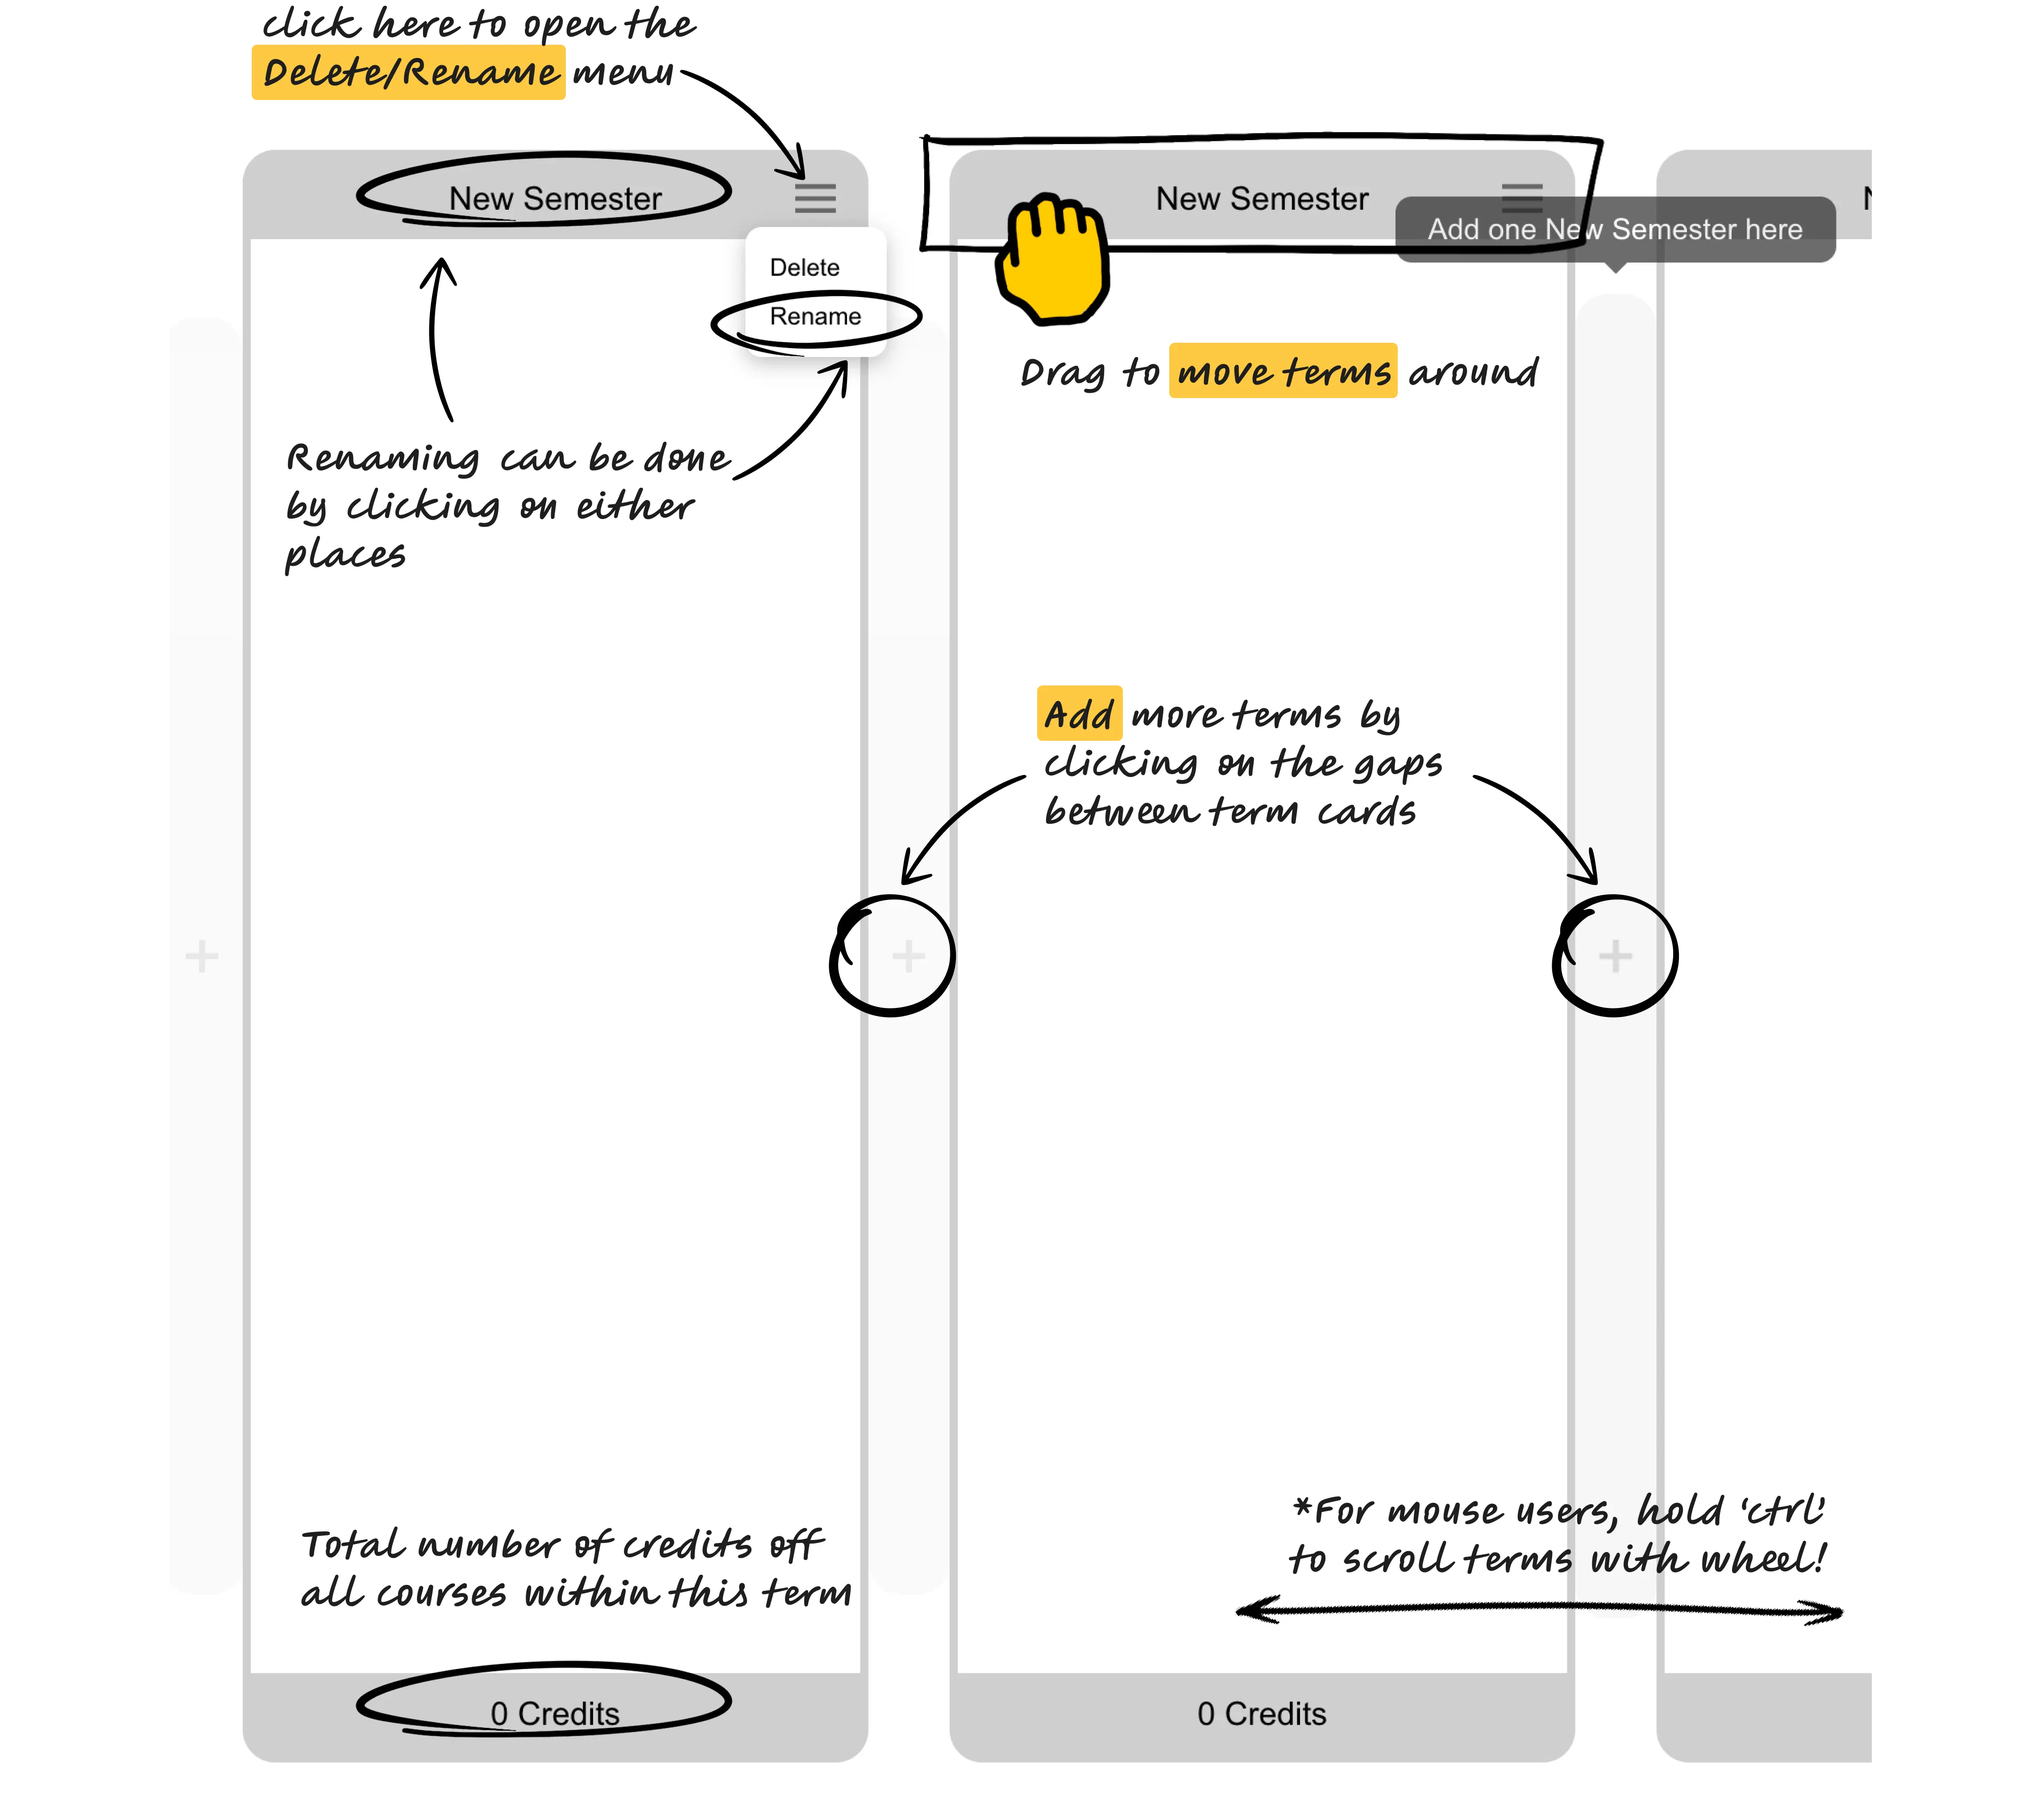
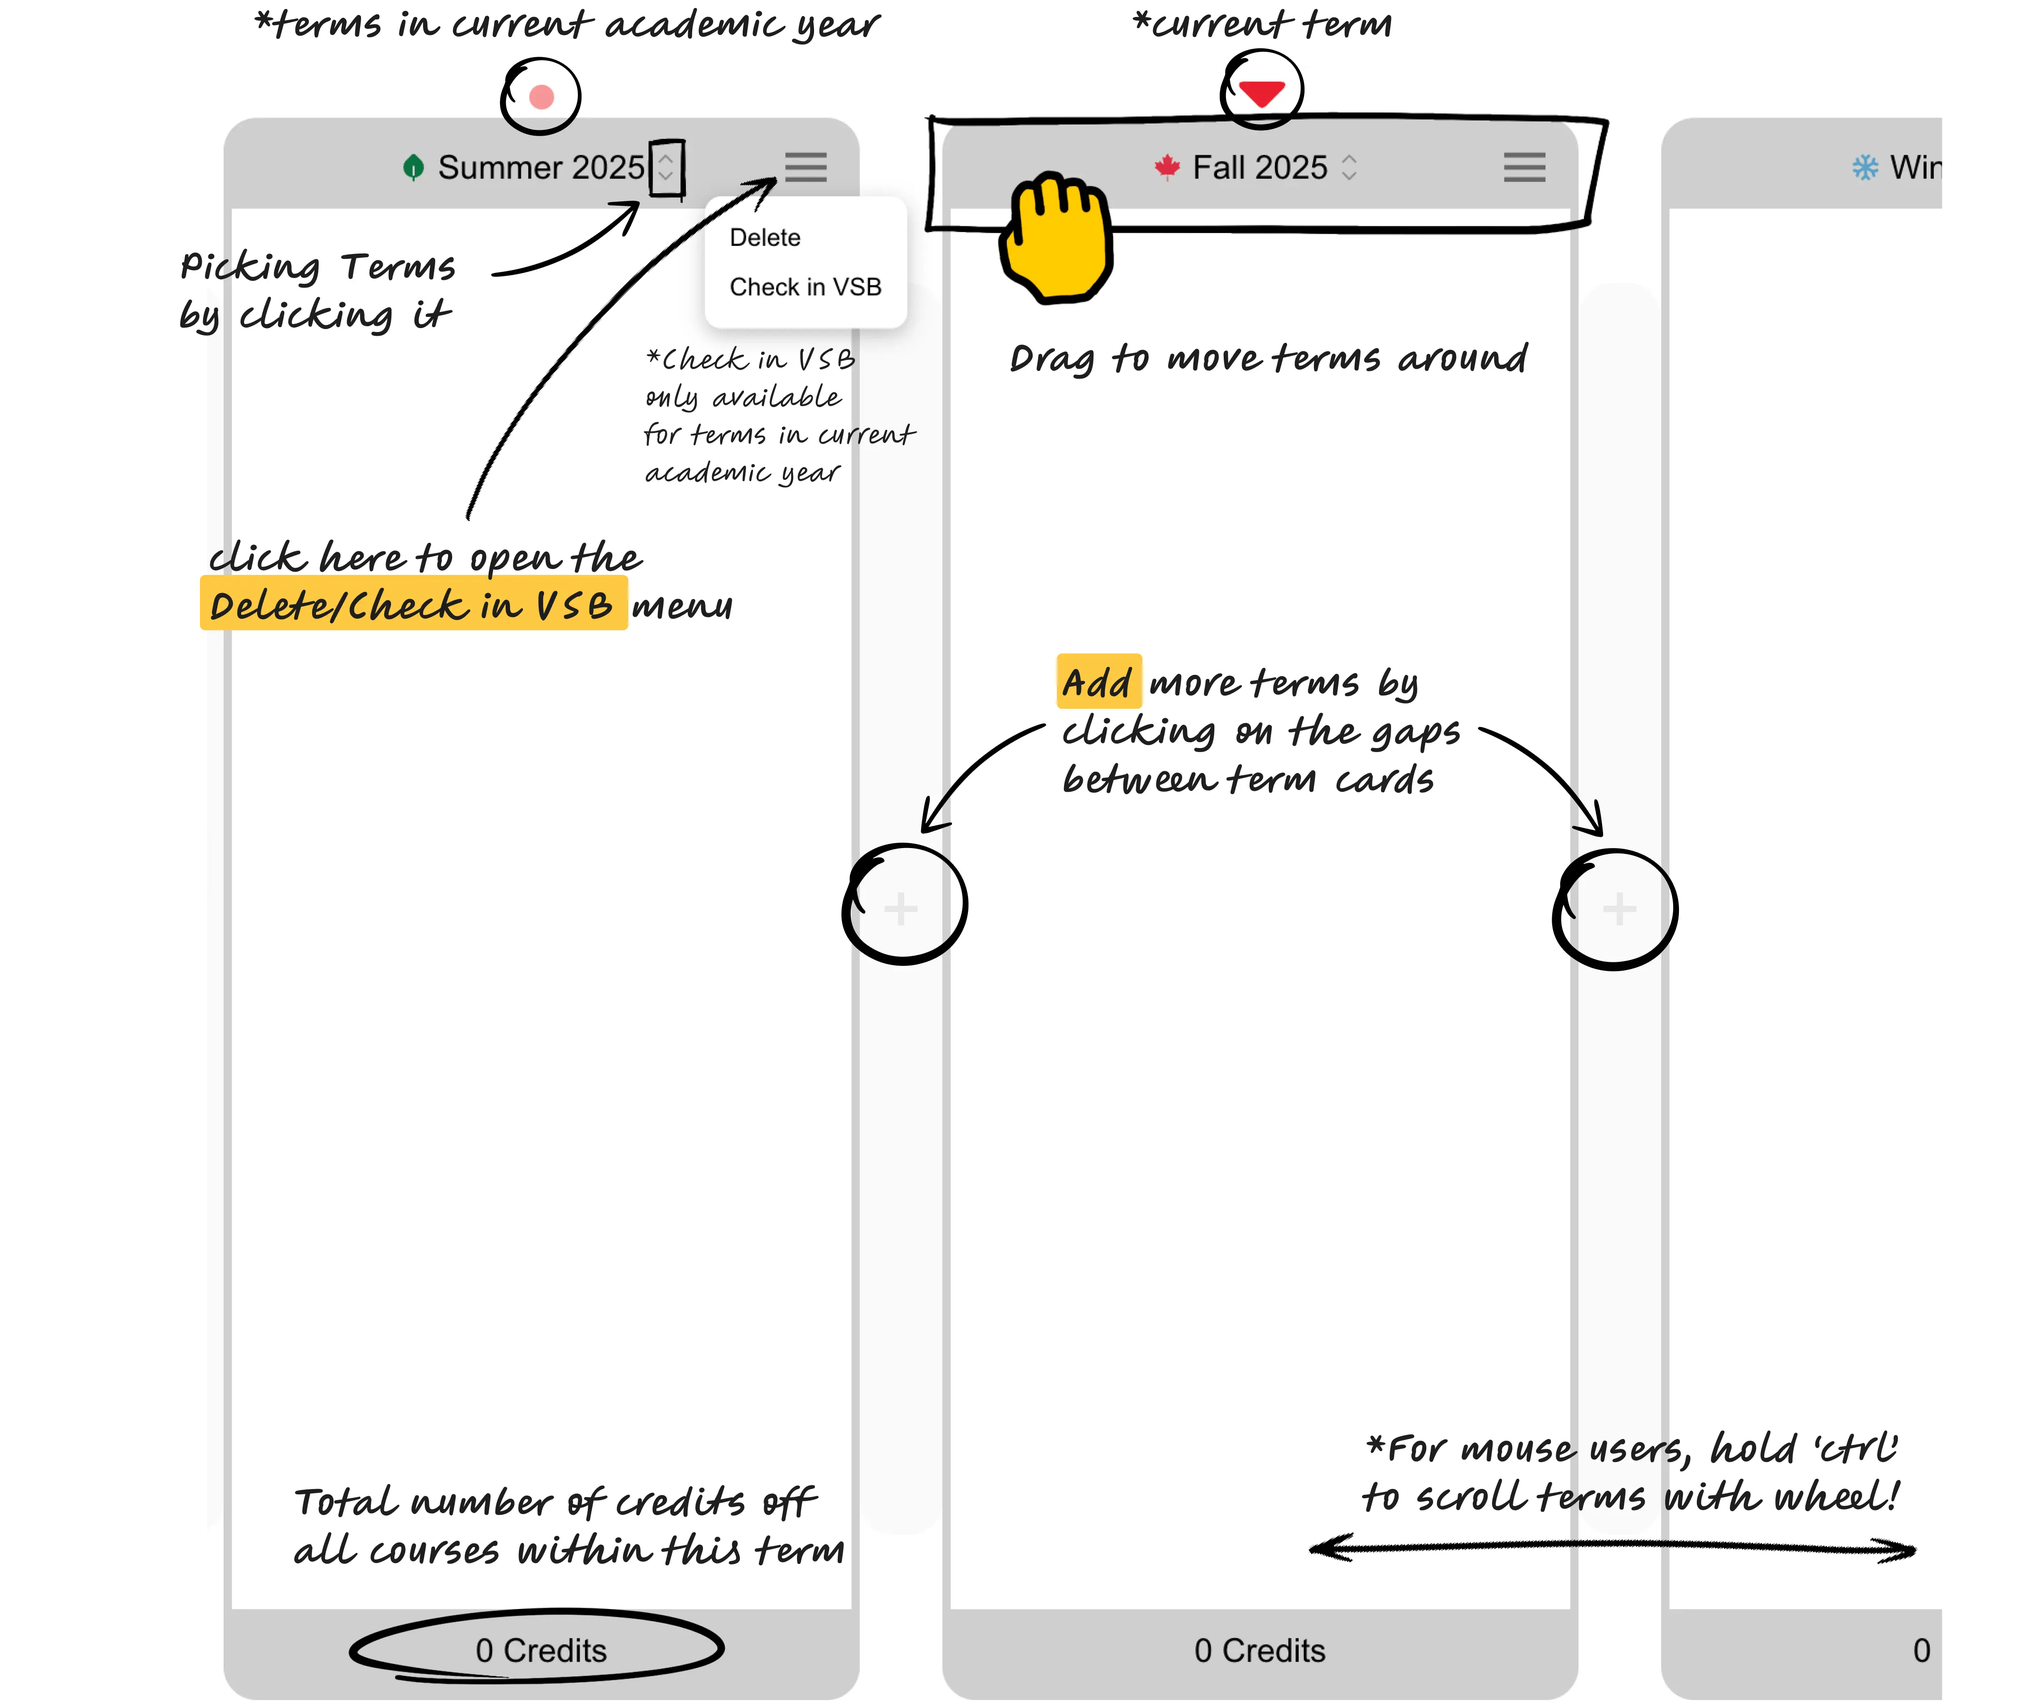
chore: update tutorial for term card

Changed region(s): [[0.0937, 0.0, 0.9679, 0.9969]]

diff --git a/public/tutorial-FR.md b/public/tutorial-FR.md
@@ -5,7 +5,7 @@
 ## Fonctionnalités du panneau latéral
 ![image du tutoriel du panneau latéral](/tutorial/search-panel.webp)
 ## Trimestres
-### Carte de trimestre
+### Carte de trimestre avec Verifier dans VSB
 ![image du tutoriel de la carte de trimestre](/tutorial/term-card.webp)
 ## Cours
 ### Étiquette de cours

diff --git a/public/tutorial-EN.md b/public/tutorial-EN.md
@@ -5,7 +5,7 @@
 ## Side Panel Functionalities
 ![side panel tutorial image](/tutorial/search-panel.webp)
 ## Terms
-### Term Card
+### Term Card & Check in VSB
 ![term card tutorial image](/tutorial/term-card.webp)
 ## Courses
 ### Course Tag
